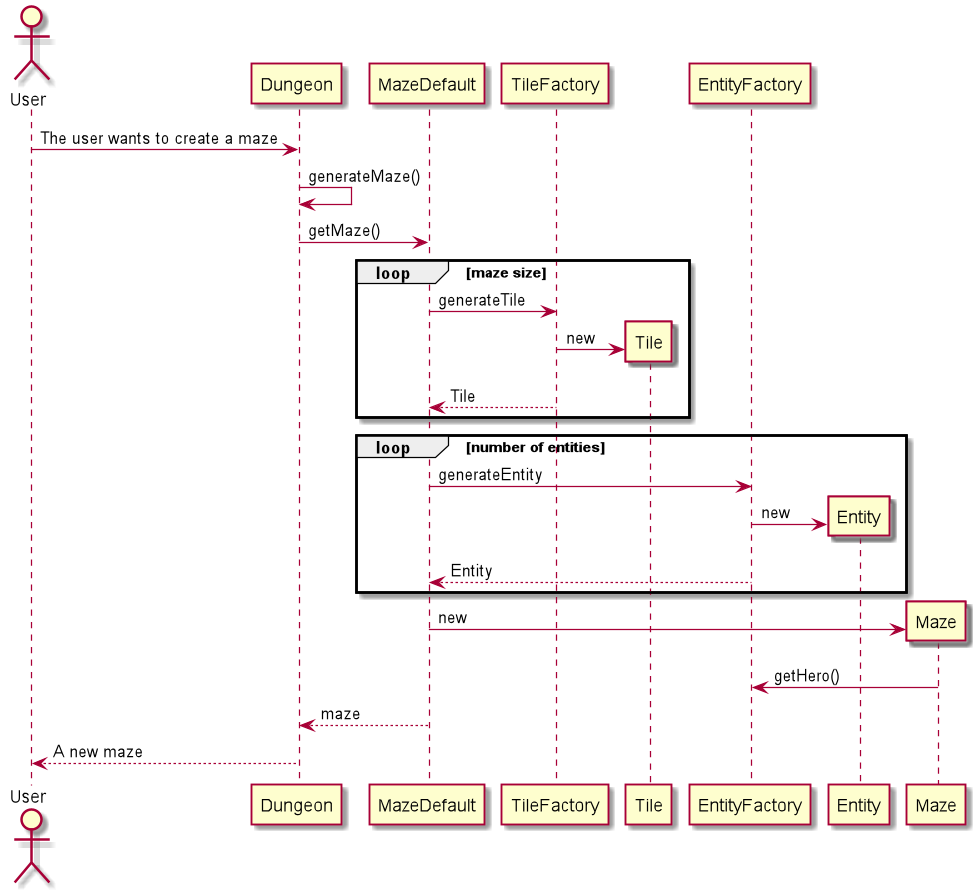
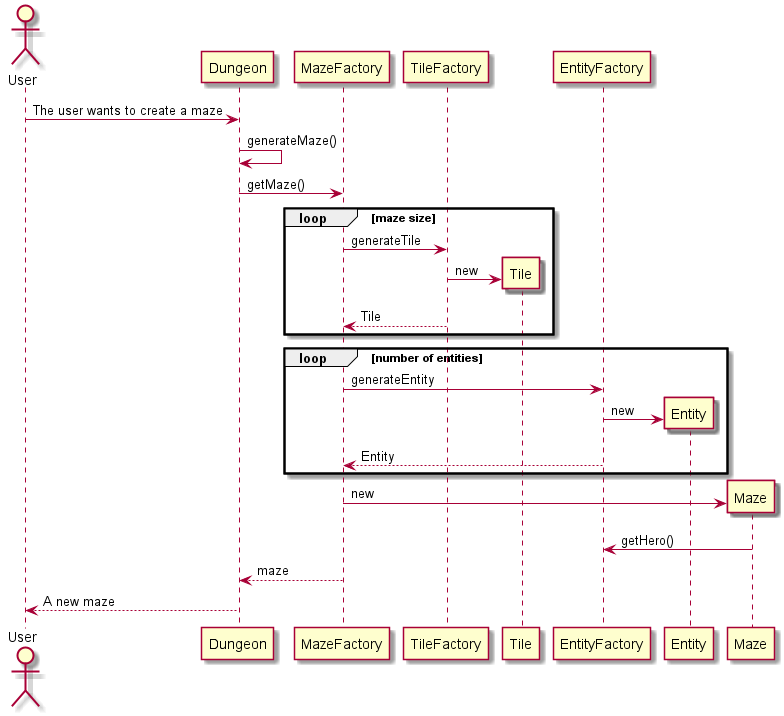
First sprint : move entities.

diff --git a/src/model/dungeon/Maze.java b/src/model/dungeon/Maze.java
@@ -42,92 +42,85 @@ public class Maze {
     }
 
     /**
-     * Move an entity in the maze
-     * @param entity entity in the maze
-     */
-    public void moveEntity(Entity entity){
-
-    }
-
-    /**
      * Move a entity in the maze using a direction
-     * @param entity entity in the maze
+     * @param e entity in the maze
      * @param direction direction for the move
      */
-    public void moveEntity(Entity entity, GlobalDirection direction){
+    public void moveEntity(Entity e, GlobalDirection direction){
+        int x, y;
+        Position currentPosition, newPosition;
 
+        // Generating a movement
+        direction = e.behave(direction);
+
+        currentPosition = e.getPosition();
+        newPosition = currentPosition;
+
+        x = currentPosition.getX();
+        y = currentPosition.getY();
+
+        switch (direction){
+            case LEFT:
+                x -= 1;
+                break;
+            case UP:
+                y -= 1;
+                break;
+            case DOWN:
+                y += 1;
+                break;
+            case RIGHT:
+                x += 1;
+                break;
+            default:
+                break;
+        }
+
+        // Checking if movement is in the maze
+        if(canMove(e, x, y)){
+            newPosition = new Position(x, y, direction);
+        }else{
+            newPosition = new Position(
+                    currentPosition.getX(),
+                    currentPosition.getY(),
+                    direction
+            );
+        }
+
+        e.setPosition(newPosition);
     }
 
     /**
      * Verify if an entity can move or not
      * @param entity entity who wants to move
-     * @param tile next tile for the entity
+     * @param x position of the target tile
+     * @param y position of the target tile
      * @return true if the entity can move
      */
-    private boolean canMove(Entity entity, Tile tile){
-        if(tile.canBeCrossed()){
-            return true;
-        }else{
-            if(entity.canPassThrought()){
-                return true;
+    private boolean canMove(Entity entity, int x, int y){
+        Tile tile;
+        boolean can = false;
+
+        if(x >= 0 && x < width && y >= 0 && y < height){
+            tile = tiles[x][y];
+            if(tile.canBeCrossed()){
+                can = true;
             }else{
-                return false;
+                if(entity.canPassThrought()) {
+                    can = true;
+                }
             }
         }
+
+        return false;
     }
 
     /**
      * Method that move all the entities non controlled by the player.
      */
     public void moveEntities() {
-        GlobalDirection direction;
-        int x, y;
-        Position currentPosition, newPosition;
-        boolean movementPossible;
-
         for (Entity e: entities){
-
-            // Generating a movement
-            direction = e.behave(GlobalDirection.IDLE);
-            currentPosition = e.getPosition();
-            newPosition = currentPosition;
-
-            x = currentPosition.getX();
-            y = currentPosition.getY();
-
-            switch (direction){
-                case LEFT:
-                    x -= 1;
-                    break;
-                case UP:
-                    y -= 1;
-                    break;
-                case DOWN:
-                    y += 1;
-                    break;
-                case RIGHT:
-                    x += 1;
-                    break;
-                default:
-                    break;
-            }
-
-            // Checking if movement is in the maze
-            if(x >= 0 && x < width && y >= 0 && y < height){
-                // In that case, chacking if entity can move
-                if(canMove(e, tiles[x][y])){
-                    newPosition = new Position(x, y, direction);
-                }else{
-                    newPosition = new Position(
-                            currentPosition.getX(),
-                            currentPosition.getY(),
-                            direction
-                    );
-                }
-            }
-
-            e.setPosition(newPosition);
-
+            moveEntity(e, GlobalDirection.IDLE);
         }
     }
 }

diff --git a/src/model/dungeon/Dungeon.java b/src/model/dungeon/Dungeon.java
@@ -2,9 +2,7 @@ package model.dungeon;
 
 import model.dungeon.entity.EntityFactory;
 import model.dungeon.entity.Hero;
-import model.dungeon.mazeFactory.MazeDefault;
 import model.dungeon.mazeFactory.MazeFactory;
-import model.dungeon.mazeFactory.MazeFile;
 import model.global.GlobalDirection;
 
 import java.io.File;
@@ -12,16 +10,14 @@ import java.io.File;
 public class Dungeon {
 
     private Maze currentMaze;
-    private MazeFactory mazeDefault;
-    private MazeFactory mazeFile;
+    private MazeFactory mazeFactory;
     private Hero hero;
 
     /**
      * Default constructor
      */
     public Dungeon(){
-        mazeDefault = new MazeDefault();
-        mazeFile = new MazeFile();
+        this.mazeFactory = new MazeFactory();
         this.hero = EntityFactory.getInstance().generateHero();
         generateMaze();
     }
@@ -31,14 +27,17 @@ public class Dungeon {
      * @param direction direction for the move
      */
     public void moveHero(GlobalDirection direction){
-
+        currentMaze.moveEntity(
+                hero,
+                direction
+        );
     }
 
     /**
      * Generate a maze
      */
     private void generateMaze(){
-        this.currentMaze = mazeDefault.getMaze();
+        this.currentMaze = mazeFactory.getMaze();
     }
 
     /**
@@ -46,7 +45,7 @@ public class Dungeon {
      * @param filename name of the file
      */
     private void generateMaze(File filename){
-        this.currentMaze = mazeFile.getMaze(filename);
+        this.currentMaze = mazeFactory.getMaze(filename);
     }
 
     /**

diff --git a/src/model/dungeon/mazeFactory/MazeFactory.java b/src/model/dungeon/mazeFactory/MazeFactory.java
@@ -1,21 +1,44 @@
 package model.dungeon.mazeFactory;
 
 import model.dungeon.Maze;
+import model.dungeon.entity.Entity;
+import model.dungeon.entity.EntityFactory;
+import model.dungeon.tile.Tile;
+import model.dungeon.tile.TileFactory;
 
 import java.io.File;
+import java.util.ArrayList;
+import java.util.List;
 
-public interface MazeFactory {
+public class MazeFactory {
 
     /**
      * Maze's getter
      * @return Maze
      */
-    public abstract Maze getMaze();
+    public Maze getMaze() {
+        TileFactory tf = new TileFactory();
+        int defaultLength = 10; // 10*10
+        int defaultEntities = 5;
+        Tile[][] tiles = new Tile[10][10];
+        List<Entity> entities = new ArrayList<>(defaultEntities);
 
-    /**
-     * Maze's getter using a File
-     * @param fileName name of the file
-     * @return Maze
-     */
-    public abstract Maze getMaze(File fileName);
+        //Generate a default list of tiles
+        for(int i = 0; i < defaultLength ; i++){
+            for(int j = 0; j < defaultLength ; j++) {
+                tiles[i][j] = tf.generateTile();
+            }
+        }
+
+        // Generate a default list of Entities
+        for(int i = 0 ; i < defaultEntities ; i++){
+            entities.add(EntityFactory.getInstance().generateMonster());
+        }
+
+        return new Maze(tiles, entities);
+    }
+
+    public Maze getMaze(File file) {
+        return null;
+    }
 }

diff --git a/src/model/dungeon/entity/behavior/HeroBehavior.java b/src/model/dungeon/entity/behavior/HeroBehavior.java
@@ -2,13 +2,24 @@ package model.dungeon.entity.behavior;
 
 import model.dungeon.entity.Entity;
 import model.global.GlobalDirection;
+import model.global.Position;
 
 public class HeroBehavior implements Behavior {
 
     @Override
     public GlobalDirection behave(Entity entity, GlobalDirection direction) {
+        Position currentPosition = entity.getPosition();
 
+        // Only change the direction of the look
+        if(currentPosition.getGlobalDirection() != direction){
+            entity.setPosition(new Position(
+                    currentPosition.getX(),
+                    currentPosition.getY(),
+                    currentPosition.getGlobalDirection()
+            ));
+            direction = GlobalDirection.IDLE;
+        }
 
-        return null;
+        return direction;
     }
 }
